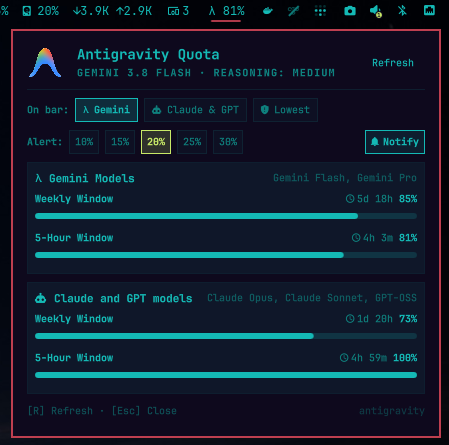
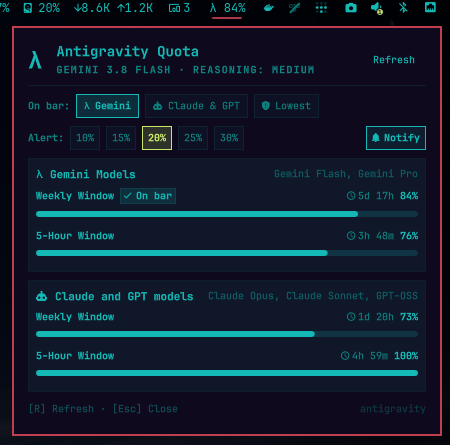
docs: add MIT LICENSE.md and update preview image

diff --git a/LICENSE.md b/LICENSE.md
@@ -1,0 +1,21 @@
+# MIT License
+
+Copyright (c) 2026 Sebastian Langer
+
+Permission is hereby granted, free of charge, to any person obtaining a copy
+of this software and associated documentation files (the "Software"), to deal
+in the Software without restriction, including without limitation the rights
+to use, copy, modify, merge, publish, distribute, sublicense, and/or sell
+copies of the Software, and to permit persons to whom the Software is
+furnished to do so, subject to the following conditions:
+
+The above copyright notice and this permission notice shall be included in all
+copies or substantial portions of the Software.
+
+THE SOFTWARE IS PROVIDED "AS IS", WITHOUT WARRANTY OF ANY KIND, EXPRESS OR
+IMPLIED, INCLUDING BUT NOT LIMITED TO THE WARRANTIES OF MERCHANTABILITY,
+FITNESS FOR A PARTICULAR PURPOSE AND NONINFRINGEMENT. IN NO EVENT SHALL THE
+AUTHORS OR COPYRIGHT HOLDERS BE LIABLE FOR ANY CLAIM, DAMAGES OR OTHER
+LIABILITY, WHETHER IN AN ACTION OF CONTRACT, TORT OR OTHERWISE, ARISING FROM,
+OUT OF OR IN CONNECTION WITH THE SOFTWARE OR THE USE OR OTHER DEALINGS IN THE
+SOFTWARE.
